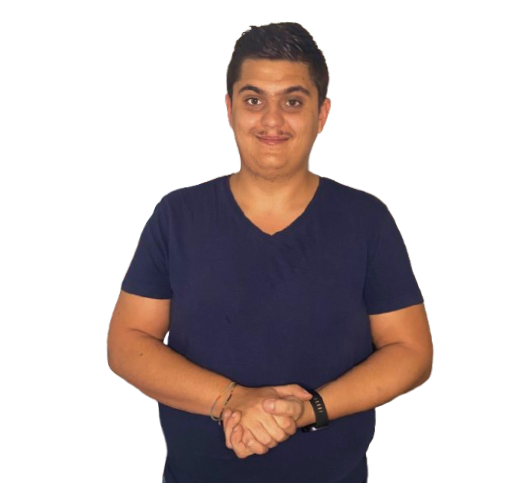
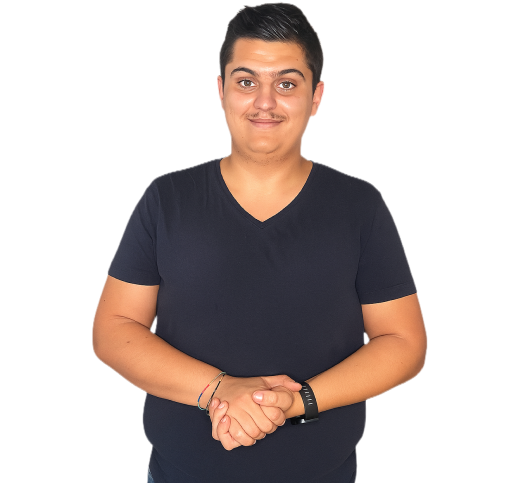
chore(hero): change me img and adjust css

Changed region(s): [[0.1547, 0.0, 0.8665, 1.0], [0.7427, 0.4348, 0.7737, 0.4969]]

diff --git a/src/components/section/hero/hero-img.tsx b/src/components/section/hero/hero-img.tsx
@@ -7,12 +7,12 @@ export const HeroImage: FC<{
   children?: React.ReactNode;
 }> = ({ src, alt, children }) => (
   <div className="relative w-80 aspect-square md:w-96 lg:w-[400px] xl:w-[450px] 2xl:w-[500px] flex justify-center items-start mr-8 md:mr-0">
-    <div className="absolute inset-0 rounded-full overflow-hidden z-10">
+    <div className="absolute inset-0 rounded-b-[50%] overflow-y-hidden z-10">
       <Image
         src={src}
         alt={alt}
         fill
-        className="object-cover -translate-x-[10%]"
+        className="object-cover -translate-x-[10%] -rotate-2 translate-y-[5%]"
         priority
       />
     </div>
